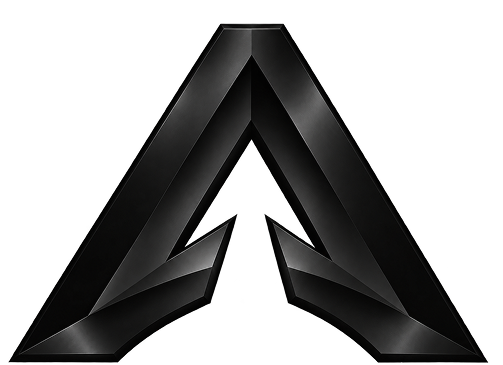
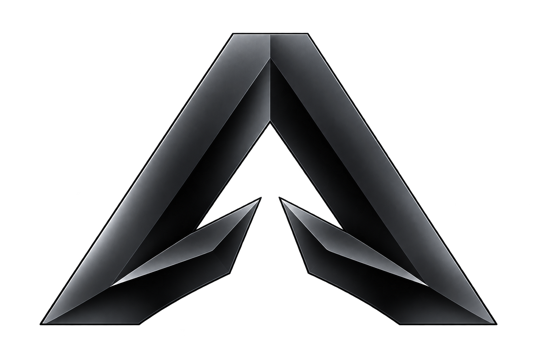
feat: new AscendOS brand marks
The company rebranded to Ascend Capital; the software is still AscendOS, so
these are deliberately the AscendOS marks. The Ascend Capital lockups in the
same source folder are intentionally unused in this app.

Four assets replaced in place, so all five consumers (sidebar, login,
access-required, landing header, landing footer) pick them up without an
import change:

  stacked-{white,black}  the Ascend mark alone  -> collapsed rail
  inline-{white,black}   the full AscendOS lockup -> expanded / standalone

White is the dark-mode pair, black the light-mode one, matching the existing
.theme-logo-dark / .theme-logo-light CSS swap.

The aspect ratio changed and two call sites were sized for the old one. The
previous "inline" asset was a wide horizontal wordmark at ~3.4:1, where the
text filled most of the height; the new lockup stacks the mark above the
wordmark at ~1.5:1, so the text is roughly a quarter of the asset. Rendered at
the old heights the "OS" became illegible — worst in the landing footer at
h-4, where it would have been a 4px smudge. Footer goes to h-10, the landing
header to h-12/md:h-14, and the expanded sidebar to h-20.

Sources were 1.3MB at up to 1650px for something that renders at 36-80px;
resampled to 360-440px tall, preserving alpha, which cuts the largest from
1.29MB to 119KB.

Verified on the deployed app: mark renders clean and transparent on login,
the full lockup is legible in the landing header and footer, and light mode
[…]

Changed region(s): [[0.0, 0.0611, 0.9841, 1.0], [0.3877, 0.3361, 0.4175, 0.3972]]

diff --git a/src/components/app-sidebar.tsx b/src/components/app-sidebar.tsx
@@ -595,19 +595,26 @@ export function AppSidebar() {
                 approximation) — .theme-logo-dark shows by default,
                 .theme-logo-light shows only under .light (styles.css), so
                 the swap is pure CSS/SSR-safe with no theme-detection flash.
-                Collapsed (rail-only) uses the stacked mark — its ~1.9:1
-                ratio fits the narrow rail's available width in a square
-                box. Expanded swaps to the inline wordmark — wide (~3.1:1),
-                so it reads as a real horizontal brand lockup on its own row
-                instead of the stacked mark stretched taller than it needs
-                to be. */}
+                White assets are the dark-mode pair, black the light-mode one.
+
+                Collapsed (rail-only) shows the Ascend mark alone (~1.5:1),
+                which object-contain fits inside the square box the narrow
+                rail allows. Expanded swaps to the full AscendOS lockup —
+                mark stacked over the wordmark, also ~1.5:1 rather than the
+                wide horizontal wordmark this used to carry, so it needs more
+                height than the old 3.4:1 asset did before "OS" is legible.
+                Hence h-20 here rather than h-14.
+
+                The company rebranded to Ascend Capital, but this is the
+                software, so these are deliberately the AscendOS marks — the
+                Ascend Capital lockups are not used in this app. */}
             <div className="flex min-w-0 items-center gap-2">
               <img
                 src={showExpanded ? ascendOsInlineWhite : ascendOsStackedWhite}
                 alt="AscendOS"
                 className={cn(
                   "theme-logo-dark shrink-0 object-contain transition-[height] duration-200",
-                  !showExpanded ? "h-9 w-9" : "h-14 w-auto",
+                  !showExpanded ? "h-9 w-9" : "h-20 w-auto",
                 )}
               />
               <img
@@ -615,7 +622,7 @@ export function AppSidebar() {
                 alt="AscendOS"
                 className={cn(
                   "theme-logo-light shrink-0 object-contain transition-[height] duration-200",
-                  !showExpanded ? "h-9 w-9" : "h-14 w-auto",
+                  !showExpanded ? "h-9 w-9" : "h-20 w-auto",
                 )}
               />
             </div>

diff --git a/src/components/landing/landing-footer.tsx b/src/components/landing/landing-footer.tsx
@@ -13,16 +13,19 @@ export function LandingFooter() {
   return (
     <footer className="border-t border-border py-10">
       <div className="mx-auto flex max-w-6xl flex-col items-center gap-6 px-4 md:flex-row md:justify-between md:px-6">
+        {/* h-10, not the h-4 this carried for the old wide wordmark: the
+            AscendOS lockup stacks the mark above the text, so the wordmark is
+            roughly a quarter of the asset's height rather than most of it. */}
         <div className="flex items-center gap-2">
           <img
             src={ascendOsWhite}
             alt="AscendOS"
-            className="theme-logo-dark h-4 w-auto shrink-0 object-contain"
+            className="theme-logo-dark h-10 w-auto shrink-0 object-contain"
           />
           <img
             src={ascendOsBlack}
             alt="AscendOS"
-            className="theme-logo-light h-4 w-auto shrink-0 object-contain"
+            className="theme-logo-light h-10 w-auto shrink-0 object-contain"
           />
         </div>
         <nav className="flex flex-wrap items-center justify-center gap-5">

diff --git a/src/components/landing/landing-header.tsx b/src/components/landing/landing-header.tsx
@@ -45,12 +45,12 @@ export function LandingHeader() {
           <img
             src={ascendOsWhite}
             alt="AscendOS"
-            className="theme-logo-dark h-10 w-auto shrink-0 object-contain md:h-12"
+            className="theme-logo-dark h-12 w-auto shrink-0 object-contain md:h-14"
           />
           <img
             src={ascendOsBlack}
             alt="AscendOS"
-            className="theme-logo-light h-10 w-auto shrink-0 object-contain md:h-12"
+            className="theme-logo-light h-12 w-auto shrink-0 object-contain md:h-14"
           />
         </a>
 
